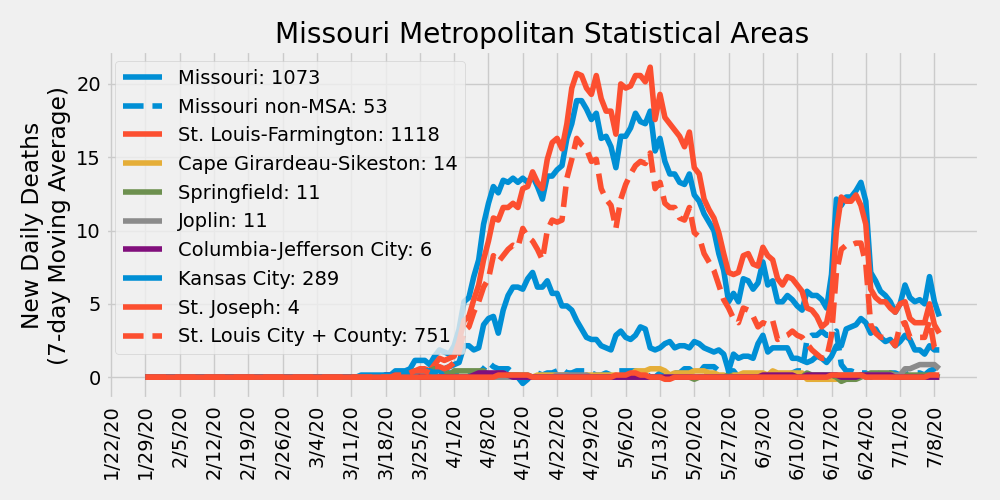
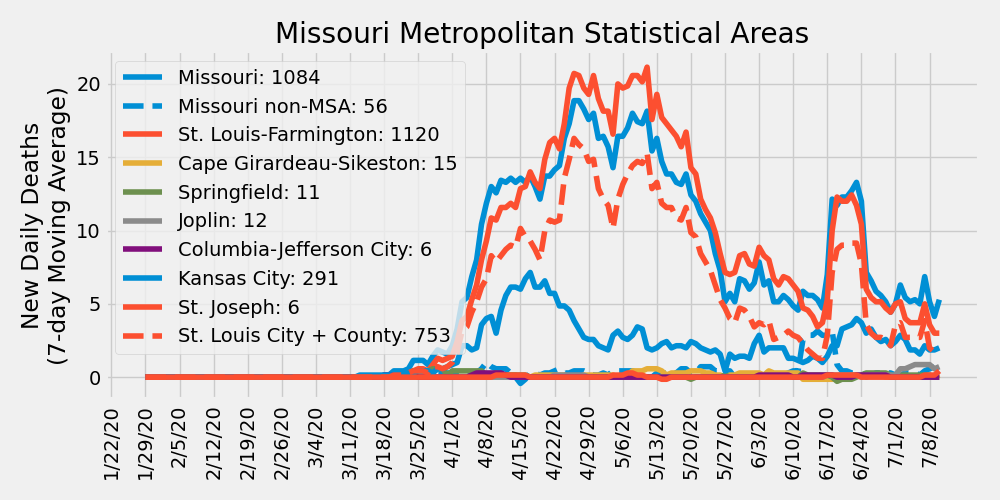
update 7/11/2020

diff --git a/ajvogt-analysis/missouri_analysis.md b/ajvogt-analysis/missouri_analysis.md
@@ -1,6 +1,6 @@
 # COVID-19 Missouri Statistics & Regional Breakdowns
 Author: Adam J. Vogt  
-Updated: 07/10/2020  
+Updated: 07/11/2020  
 Source: [COVID-19 Data Repository by the Center for Systems Science and Engineering (CSSE) at Johns Hopkins University](https://github.com/CSSEGISandData/COVID-19)  
 Source Code: `/ajvogt-analysis/mo_analysis_script.py`  
 Release Notes: [release_notes.md](https://github.com/ajvogt/COVID-19/blob/master/ajvogt-analysis/release_notes.md)
@@ -29,127 +29,127 @@ Legend shows cumulative confirmed cases
 |-----|-------|--------|---|---|
 | St. Louis-Farmington | Missouri | Lincoln | 110 | 1 |
 | St. Louis-Farmington | Missouri | Warren | 54 | 0 |
-| St. Louis-Farmington | Missouri | Franklin | 248 | 18 |
-| St. Louis-Farmington | Missouri | Jefferson | 539 | 22 |
-| St. Louis-Farmington | Missouri | St. Charles | 1230 | 75 |
-| St. Louis-Farmington | Missouri | St. Louis | 7469 | 593 |
-| St. Louis-Farmington | Missouri | St. Louis City | 2811 | 158 |
-| St. Louis-Farmington | Missouri | St. Francois | 162 | 2 |
-| St. Louis-Farmington | Illinois | Monroe | 147 | 13 |
-| St. Louis-Farmington | Illinois | St. Clair | 2128 | 144 |
-| St. Louis-Farmington | Illinois | Madison | 1095 | 70 |
-| St. Louis-Farmington | Illinois | Macoupin | 62 | 3 |
-| St. Louis-Farmington | Illinois | Jersey | 38 | 1 |
-| St. Louis-Farmington | Illinois | Clinton | 244 | 17 |
+| St. Louis-Farmington | Missouri | Franklin | 264 | 18 |
+| St. Louis-Farmington | Missouri | Jefferson | 558 | 22 |
+| St. Louis-Farmington | Missouri | St. Charles | 1265 | 75 |
+| St. Louis-Farmington | Missouri | St. Louis | 7586 | 595 |
+| St. Louis-Farmington | Missouri | St. Louis City | 2884 | 158 |
+| St. Louis-Farmington | Missouri | St. Francois | 163 | 2 |
+| St. Louis-Farmington | Illinois | Monroe | 150 | 13 |
+| St. Louis-Farmington | Illinois | St. Clair | 2202 | 144 |
+| St. Louis-Farmington | Illinois | Madison | 1133 | 70 |
+| St. Louis-Farmington | Illinois | Macoupin | 66 | 3 |
+| St. Louis-Farmington | Illinois | Jersey | 40 | 1 |
+| St. Louis-Farmington | Illinois | Clinton | 245 | 17 |
 | St. Louis-Farmington | Illinois | Calhoun | 1 | 0 |
 | St. Louis-Farmington | Illinois | Bond | 19 | 1 |
-| Cape Girardeau-Sikeston | Missouri | Cape Girardeau | 292 | 3 |
-| Cape Girardeau-Sikeston | Missouri | Bollinger | 20 | 0 |
+| Cape Girardeau-Sikeston | Missouri | Cape Girardeau | 314 | 3 |
+| Cape Girardeau-Sikeston | Missouri | Bollinger | 21 | 0 |
 | Cape Girardeau-Sikeston | Illinois | Alexander | 22 | 0 |
-| Cape Girardeau-Sikeston | Missouri | Scott | 192 | 11 |
-| Springfield | Missouri | Greene | 407 | 8 |
-| Springfield | Missouri | Christian | 67 | 1 |
-| Springfield | Missouri | Webster | 47 | 1 |
+| Cape Girardeau-Sikeston | Missouri | Scott | 198 | 12 |
+| Springfield | Missouri | Greene | 425 | 8 |
+| Springfield | Missouri | Christian | 71 | 1 |
+| Springfield | Missouri | Webster | 50 | 1 |
 | Springfield | Missouri | Polk | 19 | 0 |
 | Springfield | Missouri | Dallas | 17 | 1 |
-| Joplin | Missouri | Jasper | 940 | 9 |
-| Joplin | Missouri | Newton | 540 | 2 |
+| Joplin | Missouri | Jasper | 969 | 10 |
+| Joplin | Missouri | Newton | 548 | 2 |
 | Columbia-Jefferson City | Missouri | Howard | 5 | 0 |
-| Columbia-Jefferson City | Missouri | Boone | 504 | 2 |
-| Columbia-Jefferson City | Missouri | Cooper | 25 | 0 |
-| Columbia-Jefferson City | Missouri | Moniteau | 66 | 1 |
-| Columbia-Jefferson City | Missouri | Cole | 99 | 2 |
-| Columbia-Jefferson City | Missouri | Callaway | 61 | 1 |
-| Columbia-Jefferson City | Missouri | Osage | 11 | 0 |
-| Kansas City | Missouri | Kansas City | 2957 | 31 |
-| Kansas City | Missouri | Jackson | 1490 | 42 |
-| Kansas City | Missouri | Clay | 539 | 13 |
-| Kansas City | Missouri | Cass | 190 | 8 |
-| Kansas City | Missouri | Platte | 143 | 6 |
-| Kansas City | Missouri | Lafayette | 100 | 2 |
+| Columbia-Jefferson City | Missouri | Boone | 534 | 2 |
+| Columbia-Jefferson City | Missouri | Cooper | 28 | 0 |
+| Columbia-Jefferson City | Missouri | Moniteau | 65 | 1 |
+| Columbia-Jefferson City | Missouri | Cole | 100 | 2 |
+| Columbia-Jefferson City | Missouri | Callaway | 63 | 1 |
+| Columbia-Jefferson City | Missouri | Osage | 12 | 0 |
+| Kansas City | Missouri | Kansas City | 3040 | 32 |
+| Kansas City | Missouri | Jackson | 1543 | 42 |
+| Kansas City | Missouri | Clay | 550 | 13 |
+| Kansas City | Missouri | Cass | 195 | 8 |
+| Kansas City | Missouri | Platte | 151 | 6 |
+| Kansas City | Missouri | Lafayette | 101 | 2 |
 | Kansas City | Missouri | Ray | 30 | 0 |
-| Kansas City | Missouri | Clinton | 31 | 0 |
-| Kansas City | Missouri | Bates | 12 | 1 |
-| Kansas City | Missouri | Caldwell | 14 | 0 |
-| Kansas City | Kansas | Johnson | 2633 | 92 |
-| Kansas City | Kansas | Wyandotte | 2790 | 87 |
-| Kansas City | Kansas | Leavenworth | 1196 | 7 |
+| Kansas City | Missouri | Clinton | 33 | 0 |
+| Kansas City | Missouri | Bates | 13 | 1 |
+| Kansas City | Missouri | Caldwell | 15 | 1 |
+| Kansas City | Kansas | Johnson | 2724 | 92 |
+| Kansas City | Kansas | Wyandotte | 2869 | 87 |
+| Kansas City | Kansas | Leavenworth | 1213 | 7 |
 | Kansas City | Kansas | Miami | 52 | 0 |
-| Kansas City | Kansas | Linn | 15 | 0 |
-| St. Joseph | Missouri | Andrew | 58 | 0 |
-| St. Joseph | Missouri | Buchanan | 927 | 4 |
-| St. Joseph | Missouri | DeKalb | 15 | 0 |
+| Kansas City | Kansas | Linn | 16 | 0 |
+| St. Joseph | Missouri | Andrew | 55 | 1 |
+| St. Joseph | Missouri | Buchanan | 938 | 5 |
+| St. Joseph | Missouri | DeKalb | 16 | 0 |
 | St. Joseph | Kansas | Doniphan | 26 | 0 |
-| Missouri non-MSA | Missouri | Adair |  99 | 0 |
+| Missouri non-MSA | Missouri | Adair |  100 | 0 |
 | Missouri non-MSA | Missouri | Atchison |  6 | 0 |
 | Missouri non-MSA | Missouri | Audrain |  142 | 1 |
-| Missouri non-MSA | Missouri | Barry |  87 | 0 |
+| Missouri non-MSA | Missouri | Barry |  91 | 0 |
 | Missouri non-MSA | Missouri | Barton |  31 | 0 |
-| Missouri non-MSA | Missouri | Benton |  21 | 0 |
+| Missouri non-MSA | Missouri | Benton |  22 | 0 |
 | Missouri non-MSA | Missouri | Butler |  116 | 0 |
-| Missouri non-MSA | Missouri | Camden |  77 | 2 |
+| Missouri non-MSA | Missouri | Camden |  78 | 2 |
 | Missouri non-MSA | Missouri | Carroll |  25 | 0 |
 | Missouri non-MSA | Missouri | Carter |  7 | 1 |
 | Missouri non-MSA | Missouri | Cedar |  12 | 0 |
 | Missouri non-MSA | Missouri | Chariton |  6 | 0 |
 | Missouri non-MSA | Missouri | Clark |  2 | 0 |
-| Missouri non-MSA | Missouri | Crawford |  19 | 0 |
+| Missouri non-MSA | Missouri | Crawford |  21 | 0 |
 | Missouri non-MSA | Missouri | Dade |  2 | 0 |
 | Missouri non-MSA | Missouri | Daviess |  11 | 0 |
 | Missouri non-MSA | Missouri | Dent |  5 | 0 |
-| Missouri non-MSA | Missouri | Douglas |  8 | 0 |
-| Missouri non-MSA | Missouri | Dunklin |  119 | 3 |
-| Missouri non-MSA | Missouri | Gasconade |  13 | 0 |
-| Missouri non-MSA | Missouri | Gentry |  66 | 9 |
-| Missouri non-MSA | Missouri | Grundy |  20 | 1 |
+| Missouri non-MSA | Missouri | Douglas |  11 | 0 |
+| Missouri non-MSA | Missouri | Dunklin |  128 | 3 |
+| Missouri non-MSA | Missouri | Gasconade |  14 | 0 |
+| Missouri non-MSA | Missouri | Gentry |  67 | 9 |
+| Missouri non-MSA | Missouri | Grundy |  21 | 1 |
 | Missouri non-MSA | Missouri | Harrison |  28 | 0 |
-| Missouri non-MSA | Missouri | Henry |  20 | 3 |
+| Missouri non-MSA | Missouri | Henry |  22 | 3 |
 | Missouri non-MSA | Missouri | Hickory |  1 | 0 |
 | Missouri non-MSA | Missouri | Holt |  1 | 0 |
-| Missouri non-MSA | Missouri | Howell |  48 | 0 |
+| Missouri non-MSA | Missouri | Howell |  49 | 0 |
 | Missouri non-MSA | Missouri | Iron |  3 | 0 |
 | Missouri non-MSA | Missouri | Knox |  2 | 0 |
-| Missouri non-MSA | Missouri | Laclede |  76 | 0 |
-| Missouri non-MSA | Missouri | Lawrence |  53 | 1 |
+| Missouri non-MSA | Missouri | Laclede |  84 | 1 |
+| Missouri non-MSA | Missouri | Lawrence |  54 | 1 |
 | Missouri non-MSA | Missouri | Lewis |  8 | 1 |
 | Missouri non-MSA | Missouri | Livingston |  24 | 0 |
-| Missouri non-MSA | Missouri | McDonald |  678 | 1 |
-| Missouri non-MSA | Missouri | Macon |  17 | 0 |
+| Missouri non-MSA | Missouri | McDonald |  688 | 1 |
+| Missouri non-MSA | Missouri | Macon |  20 | 0 |
 | Missouri non-MSA | Missouri | Maries |  6 | 0 |
 | Missouri non-MSA | Missouri | Marion |  29 | 0 |
 | Missouri non-MSA | Missouri | Mercer |  6 | 0 |
-| Missouri non-MSA | Missouri | Miller |  22 | 0 |
+| Missouri non-MSA | Missouri | Miller |  23 | 0 |
 | Missouri non-MSA | Missouri | Mississippi |  98 | 0 |
 | Missouri non-MSA | Missouri | Montgomery |  23 | 0 |
-| Missouri non-MSA | Missouri | Morgan |  26 | 0 |
-| Missouri non-MSA | Missouri | New Madrid |  47 | 1 |
-| Missouri non-MSA | Missouri | Nodaway |  25 | 0 |
+| Missouri non-MSA | Missouri | Morgan |  27 | 0 |
+| Missouri non-MSA | Missouri | New Madrid |  49 | 1 |
+| Missouri non-MSA | Missouri | Nodaway |  26 | 0 |
 | Missouri non-MSA | Missouri | Oregon |  9 | 0 |
 | Missouri non-MSA | Missouri | Ozark |  2 | 0 |
-| Missouri non-MSA | Missouri | Pemiscot |  115 | 6 |
-| Missouri non-MSA | Missouri | Perry |  168 | 1 |
-| Missouri non-MSA | Missouri | Pettis |  142 | 1 |
+| Missouri non-MSA | Missouri | Pemiscot |  116 | 6 |
+| Missouri non-MSA | Missouri | Perry |  168 | 3 |
+| Missouri non-MSA | Missouri | Pettis |  143 | 1 |
 | Missouri non-MSA | Missouri | Phelps |  53 | 0 |
-| Missouri non-MSA | Missouri | Pike |  38 | 1 |
-| Missouri non-MSA | Missouri | Pulaski |  134 | 1 |
+| Missouri non-MSA | Missouri | Pike |  39 | 1 |
+| Missouri non-MSA | Missouri | Pulaski |  137 | 1 |
 | Missouri non-MSA | Missouri | Putnam |  3 | 0 |
 | Missouri non-MSA | Missouri | Ralls |  10 | 0 |
-| Missouri non-MSA | Missouri | Randolph |  14 | 0 |
+| Missouri non-MSA | Missouri | Randolph |  17 | 0 |
 | Missouri non-MSA | Missouri | Reynolds |  5 | 0 |
 | Missouri non-MSA | Missouri | Ripley |  20 | 0 |
 | Missouri non-MSA | Missouri | Ste. Genevieve |  23 | 1 |
-| Missouri non-MSA | Missouri | Saline |  299 | 5 |
+| Missouri non-MSA | Missouri | Saline |  307 | 5 |
 | Missouri non-MSA | Missouri | Schuyler |  5 | 0 |
 | Missouri non-MSA | Missouri | Scotland |  11 | 1 |
-| Missouri non-MSA | Missouri | Shannon |  23 | 0 |
-| Missouri non-MSA | Missouri | Shelby |  4 | 0 |
-| Missouri non-MSA | Missouri | Stoddard |  150 | 9 |
-| Missouri non-MSA | Missouri | Stone |  21 | 0 |
-| Missouri non-MSA | Missouri | Sullivan |  118 | 0 |
-| Missouri non-MSA | Missouri | Taney |  119 | 2 |
-| Missouri non-MSA | Missouri | Texas |  10 | 0 |
-| Missouri non-MSA | Missouri | Vernon |  28 | 0 |
+| Missouri non-MSA | Missouri | Shannon |  24 | 0 |
+| Missouri non-MSA | Missouri | Shelby |  5 | 0 |
+| Missouri non-MSA | Missouri | Stoddard |  153 | 9 |
+| Missouri non-MSA | Missouri | Stone |  22 | 0 |
+| Missouri non-MSA | Missouri | Sullivan |  117 | 0 |
+| Missouri non-MSA | Missouri | Taney |  122 | 2 |
+| Missouri non-MSA | Missouri | Texas |  11 | 0 |
+| Missouri non-MSA | Missouri | Vernon |  29 | 0 |
 | Missouri non-MSA | Missouri | Washington |  26 | 1 |
 | Missouri non-MSA | Missouri | Wayne |  5 | 0 |
 | Missouri non-MSA | Missouri | Worth |  4 | 0 |
-| Missouri non-MSA | Missouri | Wright |  31 | 0 |
+| Missouri non-MSA | Missouri | Wright |  36 | 0 |
